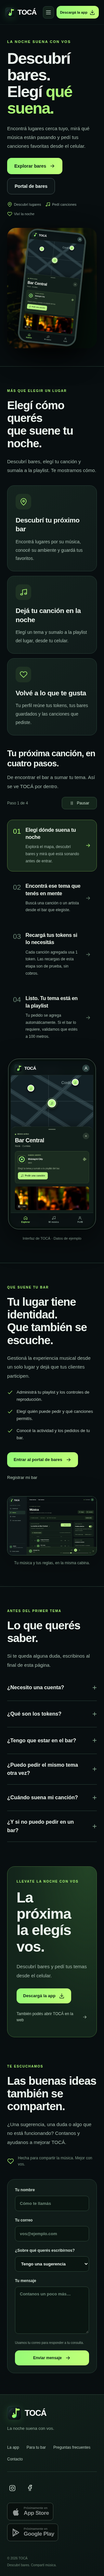
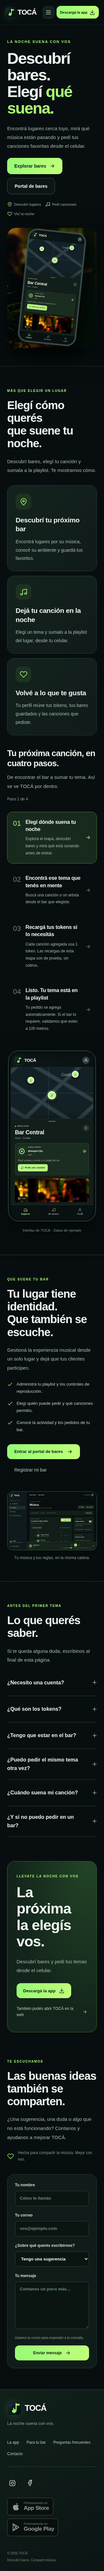
Soften homepage step highlights, remove pause and align venue links

diff --git a/web/landing.js b/web/landing.js
@@ -21,7 +21,7 @@
   ['Recargá tus tokens si lo necesitás','Cada canción agregada usa 1 token. Las recargas de esta etapa son de prueba, sin cobros.','tokens.png'],
   ['Listo. Tu tema está en la playlist','Tu pedido se agrega automáticamente. Si el bar lo requiere, validamos que estés a 100 metros.','success.png']
  ];
- function walkthrough(){return `<div class="landing-walkthrough"><div class="landing-section-heading landing-walkthrough-heading"><div><h3>Tu próxima canción, en cuatro pasos.</h3><p>De encontrar el bar a sumar tu tema. Así se ve TOCÁ por dentro.</p></div><div class="landing-walkthrough-controls"><span data-stage-count>Paso 1 de 4</span><button type="button" data-stage-playback title="Avance automático: 5 segundos por paso" aria-label="Pausar el avance automático de los pasos">${svg('<path d="M9 5v14M15 5v14"/>',16)}Pausar</button></div></div><div class="landing-how-grid"><div class="landing-stages" role="tablist" aria-label="Cómo funciona TOCÁ" aria-orientation="vertical">${stages.map(([title,copy],i)=>`<button type="button" role="tab" id="landing-stage-${i}" aria-controls="landing-screen-${i}" aria-selected="${i===0}" tabindex="${i===0?'0':'-1'}" data-landing-stage="${i}"><span class="landing-stage-number">0${i+1}</span><span><strong>${title}</strong><small>${copy}</small></span>${iconSvg('arrow',18)}</button>`).join('')}</div><div class="landing-screen-area">${stages.map(([title,,file],i)=>`<figure id="landing-screen-${i}" role="tabpanel" aria-labelledby="landing-stage-${i}" ${i?'hidden':''}><div class="landing-screen-phone"><img src="/assets/landing/${file}" width="390" height="780" loading="lazy" alt="Pantalla de TOCÁ: ${esc(title)}"></div><figcaption>Interfaz de TOCÁ · Datos de ejemplo</figcaption></figure>`).join('')}</div></div></div>`;}
+ function walkthrough(){return `<div class="landing-walkthrough"><div class="landing-section-heading landing-walkthrough-heading"><div><h3>Tu próxima canción, en cuatro pasos.</h3><p>De encontrar el bar a sumar tu tema. Así se ve TOCÁ por dentro.</p></div><div class="landing-walkthrough-controls"><span data-stage-count>Paso 1 de 4</span></div></div><div class="landing-how-grid"><div class="landing-stages" role="tablist" aria-label="Cómo funciona TOCÁ" aria-orientation="vertical">${stages.map(([title,copy],i)=>`<button type="button" role="tab" id="landing-stage-${i}" aria-controls="landing-screen-${i}" aria-selected="${i===0}" tabindex="${i===0?'0':'-1'}" data-landing-stage="${i}"><span class="landing-stage-number">0${i+1}</span><span><strong>${title}</strong><small>${copy}</small></span>${iconSvg('arrow',18)}</button>`).join('')}</div><div class="landing-screen-area">${stages.map(([title,,file],i)=>`<figure id="landing-screen-${i}" role="tabpanel" aria-labelledby="landing-stage-${i}" ${i?'hidden':''}><div class="landing-screen-phone"><img src="/assets/landing/${file}" width="390" height="780" loading="lazy" alt="Pantalla de TOCÁ: ${esc(title)}"></div><figcaption>Interfaz de TOCÁ · Datos de ejemplo</figcaption></figure>`).join('')}</div></div></div>`;}
  const previousLanding=tocaLanding;
  tocaLanding=function(){
   previousLanding();const root=document.querySelector('.toca-landing');if(!root)return;
@@ -34,7 +34,7 @@
   root.querySelector('.toca-landing-features').outerHTML=`<section id="la-app" class="landing-section landing-intro"><div class="landing-section-heading"><span class="eyebrow">MÁS QUE ELEGIR UN LUGAR</span><h2>Elegí cómo querés<br>que suene tu noche.</h2><p>Descubrí bares, elegí tu canción y sumala a la playlist. Te mostramos cómo.</p></div><div class="landing-benefits">${[['pin','Descubrí tu próximo bar','Encontrá lugares por su música, conocé su ambiente y guardá tus favoritos.'],['music','Dejá tu canción en la noche','Elegí un tema y sumalo a la playlist del lugar, desde tu celular.'],['heart','Volvé a lo que te gusta','Tu perfil reúne tus tokens, tus bares guardados y las canciones que pediste.']].map(([ic,title,copy])=>`<article><span>${iconSvg(ic,25)}</span><h3>${title}</h3><p>${copy}</p></article>`).join('')}</div>${walkthrough()}</section>`;
   root.querySelector('.toca-footer').remove();
   root.insertAdjacentHTML('beforeend',`
-   <section id="para-bares" class="landing-section landing-owners"><div><span class="eyebrow">QUE SUENE TU BAR</span><h2>Tu lugar tiene identidad.<br>Que también se escuche.</h2><p>Gestioná la experiencia musical desde un solo lugar y dejá que tus clientes participen.</p><ul><li>${iconSvg('check',18)} Administrá tu playlist y los controles de reproducción.</li><li>${iconSvg('check',18)} Elegí quién puede pedir y qué canciones permitís.</li><li>${iconSvg('check',18)} Conocé la actividad y los pedidos de tu bar.</li></ul><a href="${tocaPortalDestination()}" class="toca-btn">${state.token&&!state.demo?'Ir a mi portal':'Entrar al portal de bares'} ${iconSvg('arrow',18)}</a><a class="landing-text-link" href="#/register">Registrar mi bar</a></div><figure><img src="/assets/landing/admin-music.png" width="1100" height="720" loading="lazy" alt="Panel de música de TOCÁ para administrar la playlist del bar"><figcaption>Tu música y tus reglas, en la misma cabina.</figcaption></figure></section>
+   <section id="para-bares" class="landing-section landing-owners"><div><span class="eyebrow">QUE SUENE TU BAR</span><h2>Tu lugar tiene identidad.<br>Que también se escuche.</h2><p>Gestioná la experiencia musical desde un solo lugar y dejá que tus clientes participen.</p><ul><li>${iconSvg('check',18)} Administrá tu playlist y los controles de reproducción.</li><li>${iconSvg('check',18)} Elegí quién puede pedir y qué canciones permitís.</li><li>${iconSvg('check',18)} Conocé la actividad y los pedidos de tu bar.</li></ul><div class="landing-owner-actions"><a href="${tocaPortalDestination()}" class="toca-btn"><span>${state.token&&!state.demo?'Ir a mi portal':'Entrar al portal de bares'}</span>${iconSvg('arrow',18)}</a><a class="landing-text-link" href="#/register"><span>Registrar mi bar</span></a></div></div><figure><img src="/assets/landing/admin-music.png" width="1100" height="720" loading="lazy" alt="Panel de música de TOCÁ para administrar la playlist del bar"><figcaption>Tu música y tus reglas, en la misma cabina.</figcaption></figure></section>
    <section id="preguntas" class="landing-section landing-faq"><div class="landing-section-heading"><span class="eyebrow">ANTES DEL PRIMER TEMA</span><h2>Lo que querés saber.</h2><p>Si te queda alguna duda, escribinos al final de esta página.</p></div><div>${[
     ['¿Necesito una cuenta?','Podés explorar bares sin registrarte. Para pedir canciones y guardar tu actividad, iniciá sesión como cliente.'],
     ['¿Qué son los tokens?','Cada canción que se agrega correctamente a la playlist usa 1 token. Si no tenés saldo, podés recargar y continuar con el tema que elegiste. Por ahora las recargas son simuladas y no se cobra dinero.'],
@@ -54,34 +54,27 @@
  function scrollSection(id,smooth=true){if(id==='como-funciona')id='la-app';if(!sections.includes(id))return;const target=document.getElementById(id);if(!target)return;target.scrollIntoView({behavior:smooth&&!matchMedia('(prefers-reduced-motion:reduce)').matches?'smooth':'instant',block:'start'});}
  function activateStage(root,index){root.querySelectorAll('[data-landing-stage]').forEach(button=>{const selected=Number(button.dataset.landingStage)===index;button.setAttribute('aria-selected',String(selected));button.tabIndex=selected?0:-1;});root.querySelectorAll('[role="tabpanel"]').forEach((panel,i)=>panel.hidden=i!==index);stagePlayers.get(root)?.select(index);}
  function startWalkthrough(root){
-  const grid=root.querySelector('.landing-how-grid'),toggle=root.querySelector('[data-stage-playback]'),counter=root.querySelector('[data-stage-count]');
+  const grid=root.querySelector('.landing-how-grid'),counter=root.querySelector('[data-stage-count]');
   const motion=matchMedia('(prefers-reduced-motion:reduce)'),duration=5000;
-  let index=0,timer=null,visible=false,paused=motion.matches,disposed=false;
-  const running=()=>!disposed&&root.isConnected&&visible&&!document.hidden&&!paused;
+  let index=0,timer=null,visible=false,disposed=false;
+  const running=()=>!disposed&&root.isConnected&&visible&&!document.hidden&&!motion.matches;
   function cancel(){if(timer!==null)clearTimeout(timer);timer=null;}
   function schedule(reset=false){
    if(reset||!running())cancel();
    if(running()&&timer===null)timer=setTimeout(()=>{timer=null;if(running())activateStage(grid,(index+1)%stages.length);},duration);
   }
-  function controls(){
-   const label=paused?'Reanudar':'Pausar';
-   if(toggle.textContent!==label){
-    toggle.innerHTML=svg(paused?'<path d="m9 5 11 7-11 7V5Z"/>':'<path d="M9 5v14M15 5v14"/>',16)+label;
-    toggle.setAttribute('aria-label',paused?'Reanudar el avance automático de los pasos':'Pausar el avance automático de los pasos');
-   }
-   counter.textContent=`Paso ${index+1} de ${stages.length}`;
-  }
-  stagePlayers.set(grid,{select(next){index=next;controls();schedule(true);}});
+  function updateCount(){counter.textContent=`Paso ${index+1} de ${stages.length}`;}
+  stagePlayers.set(grid,{select(next){index=next;updateCount();schedule(true);}});
   const observer=new IntersectionObserver(entries=>{
    visible=entries.some(entry=>entry.isIntersecting);
    if(visible)root.querySelectorAll('img[loading="lazy"]').forEach(image=>image.loading='eager');
    schedule();
   },{threshold:0,rootMargin:'-90px 0px 0px 0px'});
   observer.observe(root);
-  const play=()=>{paused=!paused;controls();schedule(true);},visibility=()=>schedule(true),preference=event=>{if(event.matches)paused=true;controls();schedule(true);};
-  toggle.addEventListener('click',play);document.addEventListener('visibilitychange',visibility);motion.addEventListener('change',preference);controls();
+  const visibility=()=>schedule(true),preference=()=>schedule(true);
+  document.addEventListener('visibilitychange',visibility);motion.addEventListener('change',preference);updateCount();
   return ()=>{disposed=true;cancel();observer.disconnect();stagePlayers.delete(grid);
-   toggle.removeEventListener('click',play);document.removeEventListener('visibilitychange',visibility);motion.removeEventListener('change',preference);
+   document.removeEventListener('visibilitychange',visibility);motion.removeEventListener('change',preference);
   };
  }
  function closeMenu(){const header=document.querySelector('.toca-landing-header');header?.classList.remove('is-menu-open');const toggle=header?.querySelector('.landing-menu-toggle');if(toggle){toggle.setAttribute('aria-expanded','false');toggle.setAttribute('aria-label','Abrir menú');}}

diff --git a/web/landing.css b/web/landing.css
@@ -29,16 +29,15 @@
 .landing-walkthrough>.landing-walkthrough-heading{display:flex;align-items:center;justify-content:space-between;gap:24px;max-width:none}
 .landing-walkthrough-controls{display:flex;align-items:center;gap:14px;flex:none}
 .landing-walkthrough-controls>span{color:#8ca594;font-size:12px;white-space:nowrap;font-variant-numeric:tabular-nums}
-.landing-walkthrough-controls>button{display:inline-flex;align-items:center;justify-content:center;gap:7px;min-width:108px;min-height:38px;padding:9px 12px;border:1px solid #34503d;border-radius:10px;background:#14251b;color:#cfe3d1;font:inherit;font-size:12px;cursor:pointer}
-.landing-walkthrough-controls>button:hover{border-color:#6c994b;color:var(--lime)}
 .landing-walkthrough h3{font-size:30px;line-height:1.2;letter-spacing:-.8px;margin:0 0 13px}
 .landing-how-grid{display:grid;grid-template-columns:minmax(0,1fr) minmax(0,.9fr);gap:80px;align-items:center}
 .landing-stages{display:grid;gap:13px}
-.landing-stages>button{display:flex;text-align:left;align-items:center;gap:20px;width:100%;padding:24px 22px;border:1px solid transparent;border-radius:17px;color:#c1d0c5;background:transparent;font:inherit;cursor:pointer;transition:background .2s,border-color .2s}
+.landing-stages>button{display:flex;text-align:left;align-items:center;gap:20px;width:100%;padding:24px 22px;border:1px solid transparent;border-radius:17px;color:#c1d0c5;background:transparent;font:inherit;cursor:pointer;transition:background-color .65s ease-in-out,border-color .65s ease-in-out}
 .landing-stages>button[aria-selected=true]{border-color:#547c3a;background:#182a1d}
 .landing-stages>button{position:relative;overflow:hidden}
 .landing-stages>button:hover{background:#14221d}.landing-stage-number{font-family:'Outfit',sans-serif;font-size:22px;color:#6a8675;align-self:flex-start;padding-top:2px}
 .landing-stages>button[aria-selected=true] .landing-stage-number{color:var(--lime)}
+.landing-stage-number,.landing-stages>button>svg{transition:color .65s ease-in-out}
 .landing-stages>button>span:nth-child(2){flex:1;min-width:0}.landing-stages strong{display:block;font-size:18px;font-weight:750;line-height:1.4;letter-spacing:-.3px;color:#eef6ed}
 .landing-stages small{display:block;font-size:13px;line-height:1.8;color:var(--landing-muted);margin-top:8px}.landing-stages>button>svg{flex:none;color:#698671}.landing-stages>button[aria-selected=true]>svg{color:var(--lime)}
 .landing-screen-area{display:grid;place-items:center;min-width:0;background:radial-gradient(ellipse at center,#214a2b6b,transparent 69%)}
@@ -51,7 +50,7 @@
 .landing-owners ul{padding:0;margin:25px 0 32px;list-style:none;display:grid;gap:15px}.landing-owners li{display:flex;gap:11px;align-items:start;font-size:13px;line-height:1.7;color:#c0d0c5}.landing-owners li svg{color:var(--lime);flex:none;margin-top:2px}
 .landing-owners figure{margin:0;min-width:0}.landing-owners figure img{display:block;width:100%;height:auto;border:1px solid #3a5947;border-radius:16px;box-shadow:0 20px 80px #0005}.landing-owners figcaption{font-size:12px;color:#8ba795;margin-top:16px;text-align:center}
 .landing-text-link{display:inline-flex;align-items:center;justify-content:center;gap:8px;color:#b7cebc;text-decoration:none;font-size:13px;line-height:1.6;padding:6px 0}
-.landing-owners .landing-text-link{display:block;width:max-content;margin-top:16px}.landing-text-link:hover{color:var(--lime)}
+.landing-owner-actions{display:grid;width:max-content;max-width:100%;gap:8px}.landing-owner-actions>a{display:flex;justify-content:flex-start;width:100%;padding:14px 22px;margin:0;gap:12px}.landing-owner-actions .landing-text-link{font-size:14px}.landing-text-link:hover{color:var(--lime)}
 .landing-faq{display:grid;grid-template-columns:minmax(0,.8fr) minmax(0,1.2fr);gap:80px;border-top:1px solid var(--landing-line)}
 .landing-faq details{border-bottom:1px solid var(--landing-line);padding:21px 0}.landing-faq details:first-child{padding-top:0}
 .landing-faq summary{display:flex;justify-content:space-between;align-items:center;gap:20px;font-size:16px;font-weight:650;line-height:1.6;cursor:pointer;list-style:none}.landing-faq summary::-webkit-details-marker{display:none}.landing-faq summary>span{font-size:24px;color:#85a98f;font-weight:400;transition:transform .2s}.landing-faq details[open] summary>span{transform:rotate(45deg);color:var(--lime)}.landing-faq details>p{font-size:14px;margin-top:14px;padding-right:30px}
@@ -83,4 +82,4 @@
 @media(max-width:1000px){.landing-expanded .toca-landing-header nav{gap:16px}.landing-expanded .toca-hero-copy h1{font-size:56px}.landing-expanded .toca-landing-hero{gap:25px}.landing-how-grid{gap:35px}.landing-owners{gap:35px}.landing-contact{gap:38px}.landing-download{margin:20px 24px 45px;padding:45px}.landing-faq{gap:40px}.landing-benefits article{padding:25px 22px}.landing-footer-top{flex-wrap:wrap}}
 @media(max-width:760px){.landing-expanded .toca-landing-header{height:76px;padding:0 16px;gap:10px}.landing-expanded .toca-landing-header>.toca-brand{font-size:22px;padding:0;gap:8px}.landing-expanded .toca-landing-header .toca-brand img{width:30px;height:30px}.landing-expanded .toca-landing-header .toca-brand strong{font-size:22px}.landing-header-actions{gap:8px}.landing-menu-toggle{display:grid;place-items:center;flex:none;width:34px;height:38px;padding:0;border:1px solid #294138;border-radius:9px;background:#13221b;color:#d2e3d6;cursor:pointer}.landing-expanded .toca-landing-header .toca-btn{font-size:11px;padding:10px 11px;min-height:39px;gap:6px}.landing-expanded .toca-landing-header nav{display:none;position:absolute;top:calc(100% + 14px);right:0;width:min(250px,calc(100vw - 32px));padding:9px;border:1px solid #34503e;border-radius:14px;background:#101e18;box-shadow:0 16px 40px #0008;font-size:14px}.landing-expanded .toca-landing-header.is-menu-open nav{display:grid;gap:3px}.landing-expanded .toca-landing-header nav a{display:block;padding:12px 14px;border-radius:9px}.landing-expanded .toca-landing-header nav a:hover{background:#1c3021}.landing-walkthrough{margin-top:40px}.landing-walkthrough h3{font-size:26px}.landing-expanded .toca-landing-hero{padding:46px 22px 55px;min-height:0;grid-template-columns:minmax(0,1fr);gap:35px}.landing-expanded .toca-hero-copy h1{font-size:49px;letter-spacing:-2px}.landing-expanded .toca-hero-copy>p{font-size:15px}.landing-expanded .toca-trust{gap:13px;font-size:10px}.landing-section{padding:65px 22px;scroll-margin-top:96px}.landing-section h2{font-size:35px;letter-spacing:-1.1px}.landing-section-heading{margin-bottom:32px}.landing-benefits{grid-template-columns:minmax(0,1fr);gap:14px}.landing-benefits article{padding:25px}.landing-benefits article>span{margin-bottom:19px}.landing-how-grid,.landing-owners,.landing-contact,.landing-faq{grid-template-columns:minmax(0,1fr);gap:36px}.landing-stages>button{gap:14px;padding:20px 17px}.landing-stages strong{font-size:16px}.landing-stages small{font-size:12px}.landing-screen-area figure{width:270px}.landing-owners figure{margin-top:5px}.landing-download{grid-template-columns:1fr;margin:10px 22px 15px;padding:36px 28px;border-radius:23px;gap:28px}.landing-download h2{font-size:45px}.landing-download-art{display:none}.landing-contact{padding-top:65px;padding-bottom:65px}#landing-contact-form{padding:23px;gap:19px}.landing-form-row{grid-template-columns:minmax(0,1fr);gap:19px}.landing-form-end{flex-direction:column;align-items:stretch;gap:15px}.landing-form-end small{max-width:none}.landing-form-end .toca-btn{justify-content:center}.landing-contact-note{margin-top:25px}.landing-faq .landing-section-heading{margin:0}.landing-footer{padding:35px 22px 25px}.landing-footer-top{display:block;padding-bottom:28px}.landing-footer nav{gap:15px 23px;margin-top:22px}.landing-footer-bottom{align-items:flex-start;flex-direction:column;gap:25px}.landing-footer-bottom .landing-store-badges{justify-content:flex-start;gap:10px}.landing-store{min-width:142px;padding:8px 11px}.landing-store strong{font-size:17px}.landing-footer-legal{flex-direction:column;gap:5px}.landing-download-dialog{padding-left:22px;padding-right:22px}.landing-download-dialog .landing-store{min-width:130px}.landing-download-dialog .landing-store strong{font-size:16px}.landing-download-dialog .landing-store-badges{gap:8px}.landing-download-dialog .landing-store>svg{width:24px}}
 @media(max-width:760px){.landing-walkthrough>.landing-walkthrough-heading{align-items:flex-start;flex-direction:column;gap:18px}.landing-walkthrough-controls{width:100%;justify-content:space-between}}
-@media(prefers-reduced-motion:reduce){.landing-stages>button,.landing-faq summary>span{transition:none}}
+@media(prefers-reduced-motion:reduce){.landing-stages>button,.landing-stage-number,.landing-stages>button>svg,.landing-faq summary>span{transition:none}}

diff --git a/web/sw.js b/web/sw.js
@@ -1,4 +1,4 @@
-const CACHE="toca-shell-ceb05b7d57dd5a68";const SHELL=["/", "/index.html", "/manifest.webmanifest", "/assets/icon.svg", "/styles.css", "/toca.css?v=admin-width-1", "/toca-admin-clean.css?v=1735", "/toca-dashboard-controls.css?v=1737", "/toca-mibar-v174.css?v=174", "/toca-hours-v175.css?v=176", "/toca-v180.css?v=180", "/toca-map-credits-v181.css?v=181", "/toca-location-v184.css?v=184", "/toca-v184.css?v=184", "/toca-v185.css?v=185", "/toca-location-v1810.css?v=1810", "/toca-description-v1811.css?v=1811", "/toca-artwork-v1813.css?v=1813", "/toca-now-v1816.css?v=1816", "/toca-playlist-v1820.css?v=1820", "/toca-playlist-scroll-v1821.css?v=1821", "/toca-how-v1823.css?v=1823", "/toca-customer-v1826.css?v=1826", "/toca-presence-v1827.css?v=1827", "/toca-access-layout-v1829.css?v=1829", "/toca-cleanup-v1830.css?v=1830", "/toca-mi-bar-cards-v1839.css?v=1839", "/toca-spacing-v1840.css?v=1840", "/toca-profile-v1841.css?v=1841", "/toca-map-hover-v1845.css?v=1845", "/toca-google-v1847.css?v=1847", "/admin-profile.css?v=1", "/account.css?v=1", "/music-cabina.css?v=number-heading-1", "/venue-import.css?v=bio-hours-1", "/venue-onboarding.css?v=1", "/venue-profile.css?v=admin-width-1", "/venue-gallery.css?v=1", "/customer-wallet.css?v=brand-colors-3", "/bar-dashboard.css?v=1", "/map-place-panel.css?v=5", "/landing.css?v=steps-5", "/config.js?v=marketing-1", "/assets/qr.js", "/toca-hours-v175.js?v=176", "/request-sync.js?v=redirect-2", "/app.js?v=resume-after-topup-3", "/map-place-panel.js?v=5", "/toca-map-credits-v181.js?v=181", "/toca-ui.js?v=landing-3", "/bar-dashboard.js?v=1", "/venue-gallery.js?v=1", "/customer-wallet.js?v=resume-after-topup-2", "/toca-customer-v1826.js?v=account-layout-2", "/live-music.js?v=1816", "/venue-location.js?v=onboarding-1", "/toca-location-v1828.js?v=1828", "/toca-v17.js?v=venue-gallery-1", "/toca-v1738.js?v=1738", "/toca-v1739.js?v=1739", "/toca-artwork-v1813.js?v=1813", "/toca-now-v1816.js?v=1816", "/toca-playlist-v1820.js?v=1821", "/toca-presence-v1827.js?v=presence-recovery-1", "/toca-admin-access-v1829.js?v=distance-1", "/toca-cleanup-v1830.js?v=1830", "/toca-mi-bar-cards-v1839.js?v=1839", "/toca-profile-v1841.js?v=tokens-1", "/toca-google-v1847.js?v=1847b", "/account.js?v=2", "/map-loader.js?v=distance-map-1", "/landing.js?v=steps-5", "/runtime.js?v=3", "/admin-profile.js?v=1", "/bio-hours.js?v=1", "/venue-import.js?v=profile-sections-1", "/music-cabina.js?v=number-heading-1", "/music-cabina-drag.js?v=drag-2", "/music-edit-intent.js?v=1", "/music-playback.js?v=1", "/admin-music.js?v=playlist-edits-3", "/venue-onboarding.js?v=profile-sections-1", "/venue-profile.js?v=hours-2", "/assets/toca-home-map.svg", "/assets/venues/bar-1.webp", "/assets/venues/bar-2.webp", "/assets/venues/bar-3.webp", "/assets/venues/bar-4.webp", "/assets/venues/bar-5.webp", "/assets/venues/bar-6.webp", "/assets/landing/explore.png", "/assets/landing/search.png", "/assets/landing/tokens.png", "/assets/landing/success.png", "/assets/landing/admin-music.png"];
+const CACHE="toca-shell-e97a8cd7aa30a592";const SHELL=["/", "/index.html", "/manifest.webmanifest", "/assets/icon.svg", "/styles.css", "/toca.css?v=admin-width-1", "/toca-admin-clean.css?v=1735", "/toca-dashboard-controls.css?v=1737", "/toca-mibar-v174.css?v=174", "/toca-hours-v175.css?v=176", "/toca-v180.css?v=180", "/toca-map-credits-v181.css?v=181", "/toca-location-v184.css?v=184", "/toca-v184.css?v=184", "/toca-v185.css?v=185", "/toca-location-v1810.css?v=1810", "/toca-description-v1811.css?v=1811", "/toca-artwork-v1813.css?v=1813", "/toca-now-v1816.css?v=1816", "/toca-playlist-v1820.css?v=1820", "/toca-playlist-scroll-v1821.css?v=1821", "/toca-how-v1823.css?v=1823", "/toca-customer-v1826.css?v=1826", "/toca-presence-v1827.css?v=1827", "/toca-access-layout-v1829.css?v=1829", "/toca-cleanup-v1830.css?v=1830", "/toca-mi-bar-cards-v1839.css?v=1839", "/toca-spacing-v1840.css?v=1840", "/toca-profile-v1841.css?v=1841", "/toca-map-hover-v1845.css?v=1845", "/toca-google-v1847.css?v=1847", "/admin-profile.css?v=1", "/account.css?v=1", "/music-cabina.css?v=number-heading-1", "/venue-import.css?v=bio-hours-1", "/venue-onboarding.css?v=1", "/venue-profile.css?v=admin-width-1", "/venue-gallery.css?v=1", "/customer-wallet.css?v=brand-colors-3", "/bar-dashboard.css?v=1", "/map-place-panel.css?v=5", "/landing.css?v=steps-6", "/config.js?v=marketing-1", "/assets/qr.js", "/toca-hours-v175.js?v=176", "/request-sync.js?v=redirect-2", "/app.js?v=resume-after-topup-3", "/map-place-panel.js?v=5", "/toca-map-credits-v181.js?v=181", "/toca-ui.js?v=landing-3", "/bar-dashboard.js?v=1", "/venue-gallery.js?v=1", "/customer-wallet.js?v=resume-after-topup-2", "/toca-customer-v1826.js?v=account-layout-2", "/live-music.js?v=1816", "/venue-location.js?v=onboarding-1", "/toca-location-v1828.js?v=1828", "/toca-v17.js?v=venue-gallery-1", "/toca-v1738.js?v=1738", "/toca-v1739.js?v=1739", "/toca-artwork-v1813.js?v=1813", "/toca-now-v1816.js?v=1816", "/toca-playlist-v1820.js?v=1821", "/toca-presence-v1827.js?v=presence-recovery-1", "/toca-admin-access-v1829.js?v=distance-1", "/toca-cleanup-v1830.js?v=1830", "/toca-mi-bar-cards-v1839.js?v=1839", "/toca-profile-v1841.js?v=tokens-1", "/toca-google-v1847.js?v=1847b", "/account.js?v=2", "/map-loader.js?v=distance-map-1", "/landing.js?v=steps-6", "/runtime.js?v=3", "/admin-profile.js?v=1", "/bio-hours.js?v=1", "/venue-import.js?v=profile-sections-1", "/music-cabina.js?v=number-heading-1", "/music-cabina-drag.js?v=drag-2", "/music-edit-intent.js?v=1", "/music-playback.js?v=1", "/admin-music.js?v=playlist-edits-3", "/venue-onboarding.js?v=profile-sections-1", "/venue-profile.js?v=hours-2", "/assets/toca-home-map.svg", "/assets/venues/bar-1.webp", "/assets/venues/bar-2.webp", "/assets/venues/bar-3.webp", "/assets/venues/bar-4.webp", "/assets/venues/bar-5.webp", "/assets/venues/bar-6.webp", "/assets/landing/explore.png", "/assets/landing/search.png", "/assets/landing/tokens.png", "/assets/landing/success.png", "/assets/landing/admin-music.png"];
 self.addEventListener('install',e=>e.waitUntil(caches.open(CACHE).then(c=>c.addAll(SHELL)).then(()=>self.skipWaiting())));
 self.addEventListener('activate',e=>e.waitUntil(caches.keys().then(keys=>Promise.all(keys.filter(k=>k.startsWith('toca-shell-')&&k!==CACHE).map(k=>caches.delete(k)))).then(()=>self.clients.claim())));
 self.addEventListener('fetch',e=>{const u=new URL(e.request.url);if(e.request.method!=='GET'||u.origin!==location.origin||u.pathname.startsWith('/api/'))return;

diff --git a/web/index.html b/web/index.html
@@ -58,7 +58,7 @@
   <link rel="stylesheet" href="/customer-wallet.css?v=brand-colors-3" />
   <link rel="stylesheet" href="/bar-dashboard.css?v=1" />
   <link rel="stylesheet" href="/map-place-panel.css?v=5" />
-  <link rel="stylesheet" href="/landing.css?v=steps-5" />
+  <link rel="stylesheet" href="/landing.css?v=steps-6" />
 </head>
 <body>
   <div id="app"></div>
@@ -92,7 +92,7 @@
   <script src="/toca-google-v1847.js?v=1847b" defer></script>
   <script src="/account.js?v=2" defer></script>
   <script src="/map-loader.js?v=distance-map-1" defer></script>
-  <script src="/landing.js?v=steps-5" defer></script>
+  <script src="/landing.js?v=steps-6" defer></script>
   <script src="/runtime.js?v=3" defer></script>
   <script src="/admin-profile.js?v=1" defer></script>
   <script src="/bio-hours.js?v=1" defer></script>

diff --git a/scripts/test-landing-autoplay.py b/scripts/test-landing-autoplay.py
@@ -26,7 +26,7 @@ try:
    page.route('https://**/*',lambda route:route.abort())
    page.route('http://localhost:8080/**',lambda route:route.fulfill(content_type='application/json',body='[]',headers={'Access-Control-Allow-Origin':'*'}))
    page.goto(BASE+'/#/');expect(page.locator('[data-stage-count]')).to_have_text('Paso 1 de 4')
-   assert not page.locator('.landing-stage-progress,[role=progressbar]').count()
+   assert not page.locator('.landing-stage-progress,[role=progressbar],[data-stage-playback]').count()
    return context,page,errors
   def active(page,index):return page.locator(f'[data-landing-stage="{index}"]')
   def expect_step(page,index):
@@ -36,7 +36,7 @@ try:
   if mode=='desktop':
    context,page,errors=setup(viewport=dict(width=1440,height=900))
    page.wait_for_timeout(5300);expect_step(page,0)
-   active(page,0).click();expect(page.locator('[data-stage-playback]')).to_have_text('Pausar')
+   active(page,0).click()
    # Keep both the pointer and keyboard focus on a step throughout the full cycle.
    page.evaluate("""()=>{
     const grid=document.querySelector('.landing-how-grid');
@@ -53,12 +53,13 @@ try:
    assert all(4800<=interval<=6200 for interval in intervals),intervals
    assert page.locator('[data-landing-stage="0"]').evaluate("node=>node.matches(':hover')&&document.activeElement===node")
    print('PASS no progress bars; hovered and focused steps advance every five seconds through the full cycle:',[round(interval) for interval in intervals],flush=True)
-   toggle=page.locator('[data-stage-playback]');toggle.click();expect(toggle).to_have_text('Reanudar')
-   page.wait_for_timeout(5300);expect_step(page,0)
-   toggle.click();expect_step(page,1)
-   active(page,3).click();expect(toggle).to_have_text('Pausar')
-   page.wait_for_timeout(4400);expect_step(page,3);expect_step(page,0)
-   print('PASS explicit pause/resume; manual selection gets a fresh five seconds and continues while focused',flush=True)
+   page.wait_for_timeout(800);active(page,3).click();page.wait_for_timeout(150)
+   alphas=page.evaluate(r"""()=>[0,3].map(index=>{const color=getComputedStyle(document.querySelector(`[data-landing-stage="${index}"]`)).borderTopColor;const parts=color.match(/rgba?\(([^)]+)\)/)[1].split(',');return parts.length===4?Number(parts[3]):1})""")
+   assert all(0<alpha<1 for alpha in alphas),('Both outgoing and incoming borders must fade',alphas)
+   page.wait_for_timeout(700)
+   assert active(page,0).evaluate("node=>getComputedStyle(node).borderTopColor")=='rgba(0, 0, 0, 0)'
+   page.wait_for_timeout(3500);expect_step(page,3);expect_step(page,0)
+   print('PASS outgoing/incoming border fade and manual selection followed by automatic advance; no pause control',flush=True)
    page.evaluate("Object.defineProperty(document,'hidden',{configurable:true,get:()=>true});document.dispatchEvent(new Event('visibilitychange'))")
    page.wait_for_timeout(5300);expect_step(page,0)
    page.evaluate("Object.defineProperty(document,'hidden',{configurable:true,get:()=>false});document.dispatchEvent(new Event('visibilitychange'))")
@@ -72,19 +73,19 @@ try:
   else:
    context,page,errors=setup(viewport=dict(width=390,height=900),is_mobile=True,has_touch=True)
    page.locator('.landing-screen-area').scroll_into_view_if_needed();expect_step(page,1)
-   active(page,3).tap();expect(page.locator('[data-stage-playback]')).to_have_text('Pausar')
+   active(page,3).tap()
    page.wait_for_timeout(4400);expect_step(page,3);expect_step(page,0)
-   page.locator('[data-stage-playback]').tap();expect(page.locator('[data-stage-playback]')).to_have_text('Reanudar')
-   page.wait_for_timeout(5300);expect_step(page,0)
-   page.locator('[data-stage-playback]').tap();expect_step(page,1)
+   active(page,2).tap();expect_step(page,3)
    assert not errors,errors;context.close()
-   print('PASS mobile auto advance, touch selection without implicit pause and explicit controls',flush=True)
+   print('PASS mobile auto advance and manual touch selection without a pause control',flush=True)
    context,page,errors=setup(viewport=dict(width=1440,height=900),reduced_motion='reduce')
    page.locator('.landing-screen-area').scroll_into_view_if_needed()
-   expect(page.locator('[data-stage-playback]')).to_have_text('Reanudar')
    page.wait_for_timeout(5300);expect_step(page,0)
-   page.locator('[data-stage-playback]').click();expect_step(page,1)
+   active(page,2).click();expect_step(page,2)
+   assert active(page,2).evaluate("node=>getComputedStyle(node).transitionDuration")=='0s'
+   page.wait_for_timeout(5300);expect_step(page,2)
+   page.emulate_media(reduced_motion='no-preference');expect_step(page,3)
    assert not errors,errors;context.close()
-   print('PASS reduced motion starts paused and advances after explicit play, even with the pointer over the control',flush=True)
+   print('PASS reduced motion disables fade/autoplay, keeps manual steps and resumes when the preference changes',flush=True)
   browser.close()
 finally:server.shutdown()

diff --git a/scripts/test-landing.py b/scripts/test-landing.py
@@ -55,8 +55,11 @@ try:
     tabs.nth(i).click();expect(tabs.nth(i)).to_have_attribute('aria-selected','true');expect(page.locator(f'#landing-screen-{i}')).to_be_visible()
     image=page.locator(f'#landing-screen-{i} img');page.wait_for_function('(src)=>Array.from(document.images).some(i=>i.src.endsWith(src)&&i.naturalWidth>0)',arg=image.get_attribute('src'))
    tabs.last.press('Home');expect(tabs.first).to_have_attribute('aria-selected','true')
-   expect(page.locator('[data-stage-playback]')).to_have_text('Pausar')
+   assert not page.locator('[data-stage-playback]').count()
    assert not root.locator('.landing-stage-progress,[role=progressbar]').count()
+   actions=page.locator('.landing-owner-actions')
+   primary=actions.locator('.toca-btn span').bounding_box();secondary=actions.locator('.landing-text-link span').bounding_box()
+   assert abs(primary['x']-secondary['x'])<1,'Venue action labels must share the same left edge'
    header_anchor('contacto');page.wait_for_timeout(450)
    form=page.locator('#landing-contact-form');form.locator('[name=name]').fill('Landing fixture');form.locator('[name=email]').fill('landing@example.test');form.locator('[name=message]').fill('Tengo una sugerencia para mejorar la aplicación.')
    header_anchor('la-app');page.go_back();expect(form.locator('[name=name]')).to_have_value('Landing fixture')

diff --git a/docs/INICIO.md b/docs/INICIO.md
@@ -4,7 +4,7 @@ La página reúne la presentación, “La app” (beneficios y recorrido con cap
 
 Los enlaces de la cabecera y el pie llevan a secciones de la misma página mediante el router existente: `/#/?section=la-app`, `/#/?section=para-bares` y `/#/?section=contacto`. Los enlaces anteriores a `section=como-funciona` siguen llevando a “La app”. Funcionan al abrir un enlace directo y al usar atrás/adelante, y conservan el formulario mientras se navega entre secciones. La cabecera permanece visible; sus enlaces se agrupan a la derecha junto a “Descargá la app”. En celular se reúnen en un menú junto al mismo botón.
 
-El recorrido de cuatro pasos avanza automáticamente cada cinco segundos y vuelve al primero al terminar. Muestra el número de paso y un control para pausar/reanudar, sin barras de progreso. El mouse y el foco no detienen el avance; elegir un paso manualmente reinicia los cinco segundos y continúa el recorrido. Se detiene al pulsar “Pausar”, al salir de la sección o al ocultar la pestaña. Al volver comienza un intervalo completo. Con movimiento reducido comienza pausado. El temporizador y el observador se eliminan al salir de inicio.
+El recorrido de cuatro pasos avanza automáticamente cada cinco segundos y vuelve al primero al terminar. Muestra el número de paso, sin barras de progreso ni botón de pausa. El borde y el fondo del paso saliente y entrante cambian suavemente durante 650 ms. El mouse y el foco no detienen el avance; elegir un paso manualmente reinicia los cinco segundos y continúa el recorrido. Se detiene al salir de la sección o al ocultar la pestaña. Al volver comienza un intervalo completo. Con movimiento reducido no hay fundido ni avance automático y los cuatro pasos siguen disponibles manualmente. El temporizador y el observador se eliminan al salir de inicio.
 
 ## Vista previa
 
@@ -73,7 +73,7 @@ Compose ejecuta las migraciones antes del API. Actualizar el navegador con `Cmd+
 Comprobaciones incluidas:
 
 - `scripts/test-landing.py`: escritorio y celulares de 390/320 px, anclas, historial, recorrido y teclado, imágenes cargadas, QR local, destinos iOS/Android y reintentos del formulario.
-- `scripts/test-landing-autoplay.py --mode desktop` y `--mode mobile`: duración real de cinco segundos, ciclo completo, avance con el mouse/foco sobre la sección, selección manual, pausas explícitas o por visibilidad, touch, movimiento reducido y limpieza al navegar.
+- `scripts/test-landing-autoplay.py --mode desktop` y `--mode mobile`: duración real de cinco segundos, ciclo completo, avance con el mouse/foco sobre la sección, selección manual, pausas por visibilidad, touch, movimiento reducido, fundido de bordes y limpieza al navegar.
 - `ContactInputTest.kt`: normalización, validación y campo trampa.
 - `scripts/integration/P1ServiceProbe.java`: persistencia, concurrencia, reintentos y notificaciones con transporte simulado, junto con las regresiones existentes.
 - `scripts/integration/http_contact_probe.py`: formulario real → API real → PostgreSQL de prueba, validación HTTP, idempotencia, límites y rechazo de cabeceras de proxy no confiables. Requiere las variables y protecciones de base de prueba de `http_auth_probe.py`; `TOCA_TEST_WEB_URL` habilita el envío desde Chromium.
